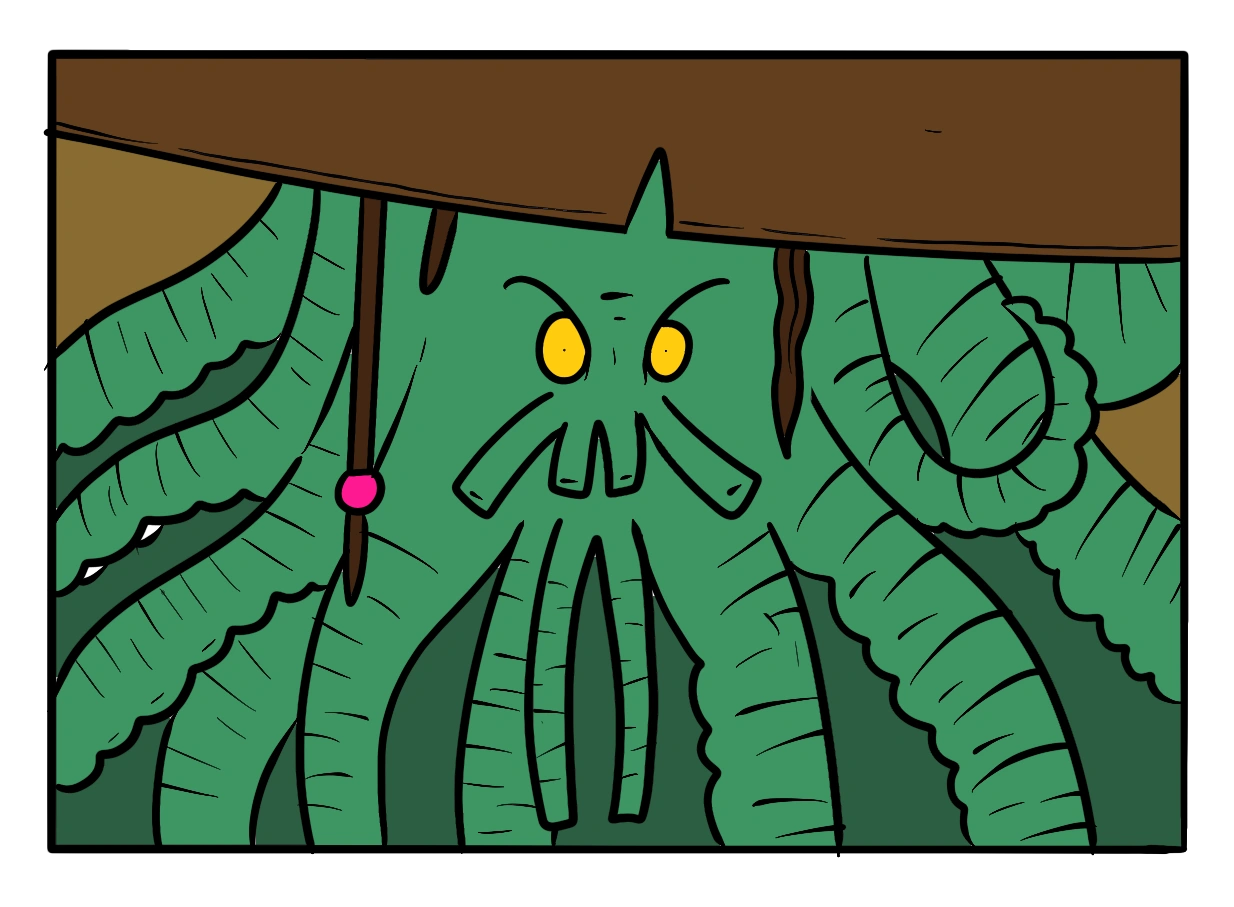
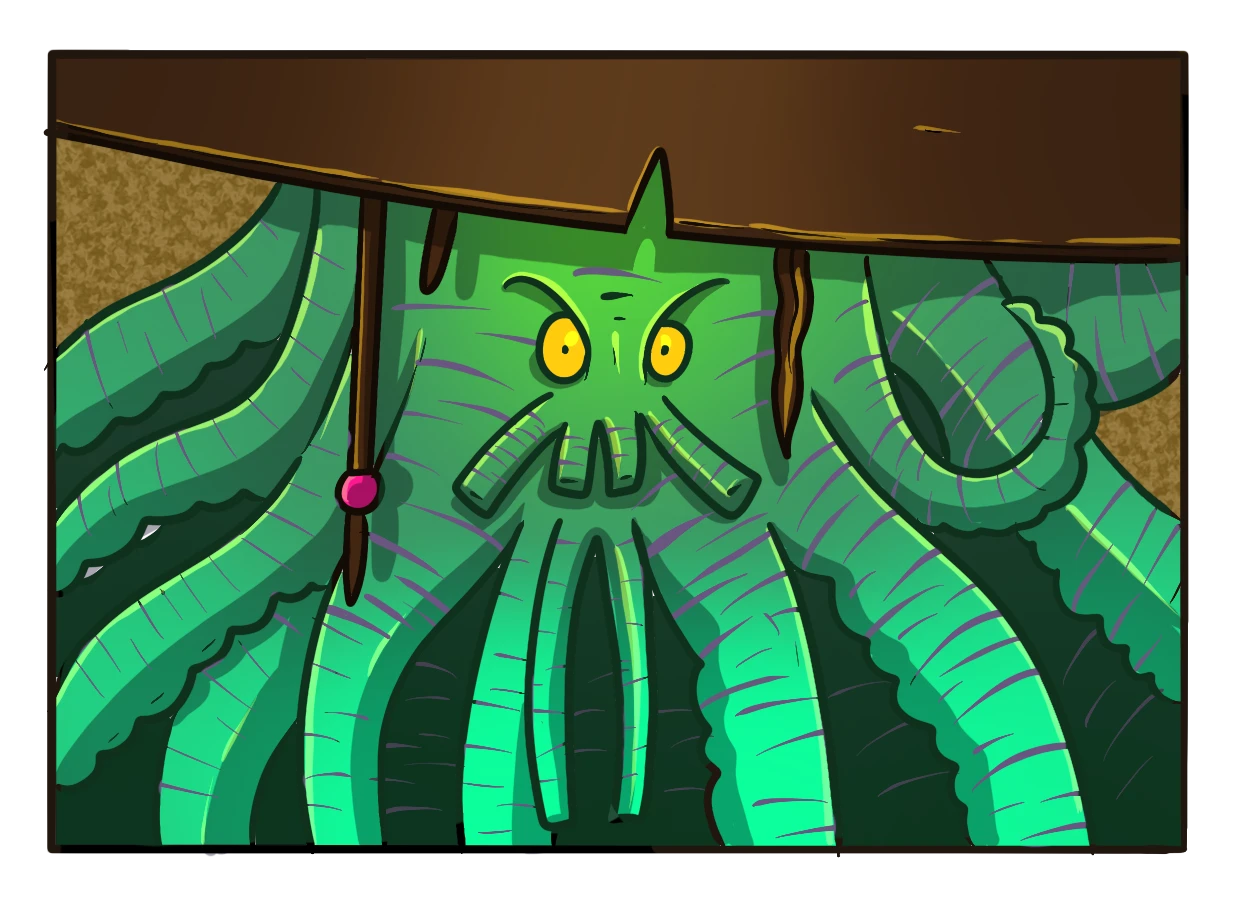
feat: poll screen styling — new admiral image, poll background, shadow/light layers
Replace admiral.webp with new converted image, add poll-br.webp background
for presentation poll slide, add shadow and light decorative layers to vote
poll screen with proper z-index stacking.

diff --git a/apps/vote/src/components/PollScreen.vue b/apps/vote/src/components/PollScreen.vue
@@ -10,51 +10,60 @@ const emit = defineEmits<{
 <template>
   <div class="relative h-full w-full">
     <div
-      class="absolute left-1/2 -translate-x-1/2 top-[5%] h-[30%] cursor-pointer transition-transform duration-200 active:scale-[0.97] overflow-hidden rounded-2xl"
+      class="absolute w-full left-1/2 -translate-x-1/2 top-[5%] h-[30%] cursor-pointer transition-transform duration-200 active:scale-[0.97] overflow-hidden rounded-2xl"
       @click="emit('poll', 'newbie')"
     >
       <img
         src="/vote/A.webp"
-        alt=""
-        class="h-full w-auto object-cover"
+        class="block h-full w-auto mx-auto "
+        alt="" "
       />
       <img
-        src="/poll/newbie.webp"
+        src="
+        /poll/newbie.webp"
         alt="Newbie"
-        class="absolute inset-0 m-auto w-[90%] object-contain"
+        class="absolute left-[50%]  -translate-x-1/2 m-auto h-[55%] top-[15%]"
       />
+      <div
+        class="absolute left-[50%] text-center text-3xl font-bold font-title text-black top-[69%] -translate-x-1/2 m-auto"
+      >Newbie</div>
     </div>
 
+
     <div
-      class="absolute left-1/2 -translate-x-1/2 top-[35%] h-[30%] cursor-pointer transition-transform duration-200 active:scale-[0.97] overflow-hidden rounded-2xl"
+      class="absolute w-full left-1/2 -translate-x-1/2 top-[35%] h-[30%] cursor-pointer transition-transform duration-200 active:scale-[0.97] overflow-hidden rounded-2xl"
       @click="emit('poll', 'captain')"
     >
       <img
         src="/vote/A.webp"
-        alt=""
-        class="h-full w-auto object-cover"
+        class="block h-full w-auto mx-auto "
       />
       <img
         src="/poll/captain.webp"
         alt="Captain"
-        class="absolute inset-0 m-auto w-[90%] object-contain"
+        class="absolute left-[50%]  -translate-x-1/2 m-auto h-[55%] top-[15%]"
       />
+      <div
+        class="absolute left-[50%] text-center text-3xl font-bold font-title text-black top-[69%] -translate-x-1/2 m-auto"
+      >Captain</div>
     </div>
 
     <div
-      class="absolute left-1/2 -translate-x-1/2 top-[65%] h-[30%] cursor-pointer transition-transform duration-200 active:scale-[0.97] overflow-hidden rounded-2xl"
+      class="absolute w-full left-1/2 -translate-x-1/2 top-[65%] h-[30%] cursor-pointer transition-transform duration-200 active:scale-[0.97] overflow-hidden rounded-2xl"
       @click="emit('poll', 'admiral')"
     >
       <img
         src="/vote/A.webp"
-        alt=""
-        class="h-full w-auto object-cover"
+        class="block h-full w-auto mx-auto "
       />
       <img
         src="/poll/admiral.webp"
         alt="Admiral"
-        class="absolute inset-0 m-auto w-[90%] object-contain"
+        class="absolute left-[50%]  -translate-x-1/2 m-auto h-[55%] top-[15%]"
       />
+      <div
+        class="absolute left-[50%] text-center text-3xl font-bold font-title text-black top-[69%] -translate-x-1/2 m-auto"
+      >Admiral</div>
     </div>
   </div>
 </template>

diff --git a/apps/vote/src/App.vue b/apps/vote/src/App.vue
@@ -378,6 +378,11 @@ onMounted(async () => {
         alt=""
         class="absolute inset-0 w-full h-full object-cover z-0"
       />
+      <img
+        src="/vote/shadow.webp"
+        alt=""
+        class="absolute inset-0 w-full h-full object-cover z-999 pointer-events-none opacity-34 mix-blend-multiply -scale-x-100"
+      />
       <PollScreen
         class="z-3"
         @poll="handlePoll"
@@ -385,7 +390,7 @@ onMounted(async () => {
       <img
         src="/vote/light.webp"
         alt=""
-        class="absolute inset-0 w-full h-full object-cover mix-blend-plus-lighter opacity-41 z-999 pointer-events-none"
+        class="absolute inset-0 w-full h-full object-cover mix-blend-plus-lighter opacity-41 z-9999 pointer-events-none"
       />
     </div>
 

diff --git a/apps/presentation/slides.md b/apps/presentation/slides.md
@@ -28,7 +28,7 @@ css: unocss
 transition: slide-down
 ---
 
-<div class="slide-bg" style="background-image: url('/backgrounds/home-bottom-right.webp')">
+<div class="slide-bg" style="background-image: url('/backgrounds/poll-br.webp')">
   <PollButtons poll-id="knowledge-level" />
 </div>
 
